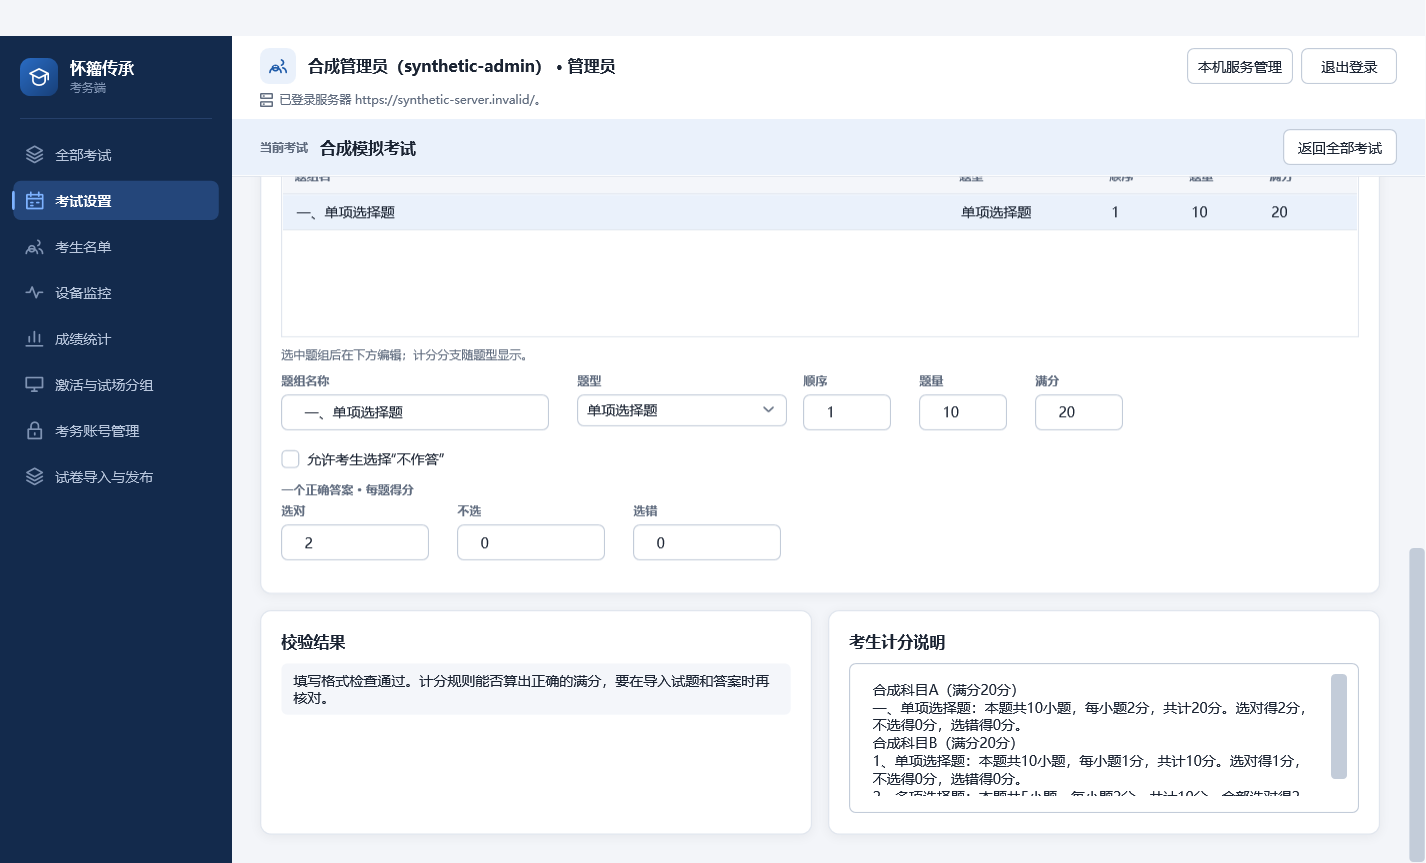
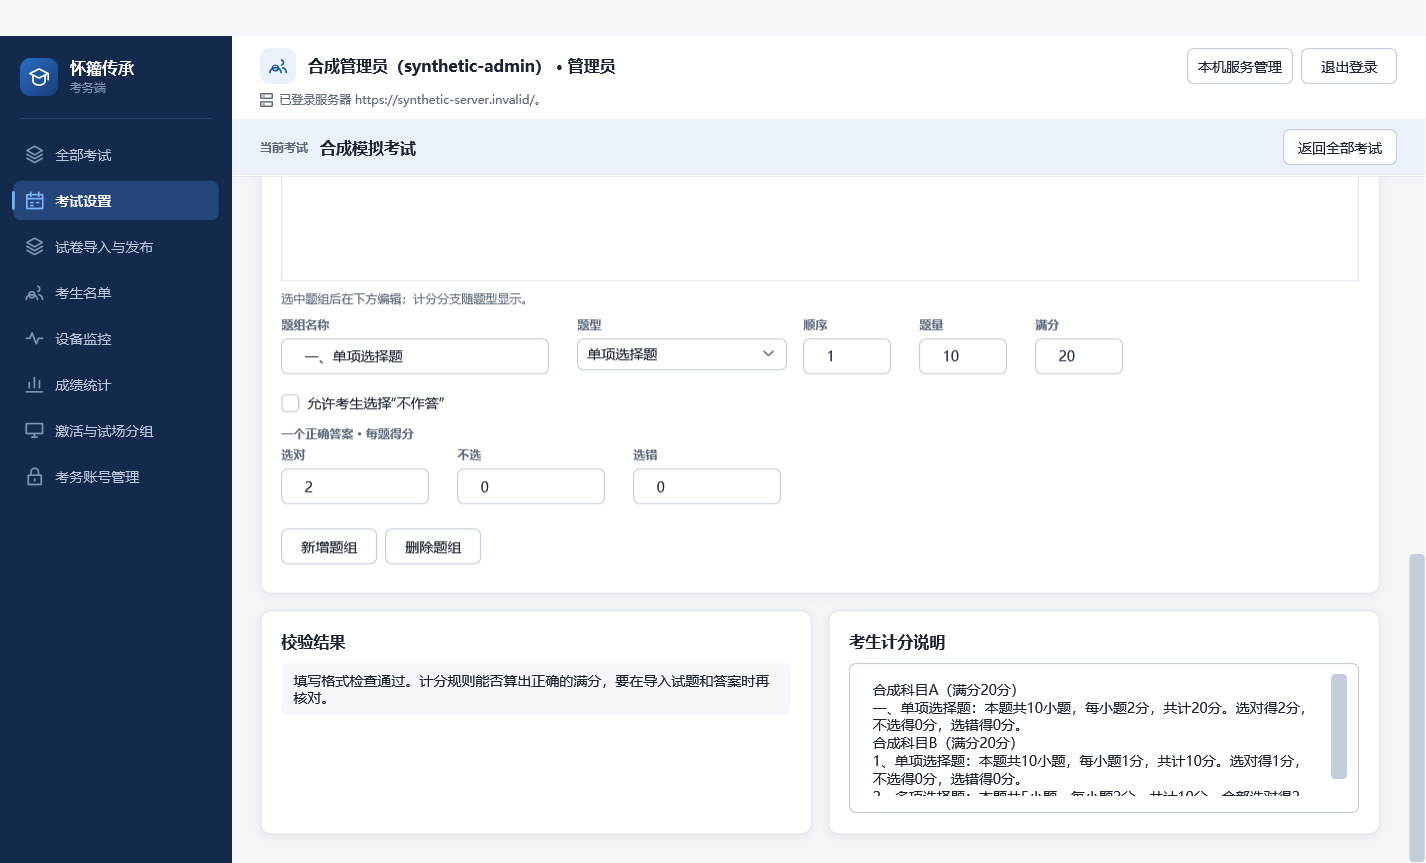
修正设置页与最新主分支衔接并更新复测证据

diff --git a/docs/operations/readable-settings.md b/docs/operations/readable-settings.md
@@ -1,9 +1,12 @@
 # C02 题组编辑与考试名称
 
-对应审查 D2/D3 及 #18。题组概览只保留名称、题型、顺序、题量与满分；选中后在下方编辑规则。单项题只展示一个正确答案的分支，多项题只展示多个正确答案的分支，不定项题展示两种分支；隐藏不会清除原值。新增、删除、开考后的禁改规则、服务器校验及原计分契约不变。
+对应审查 D2/D3 及 #46。题组概览只保留名称、题型、顺序、题量与满分；选中后在下方编辑规则。单项题只展示一个正确答案的分支，多项题只展示多个正确答案的分支，不定项题展示两种分支；隐藏不会清除原值。新增、删除、开考后的禁改规则、服务器校验及原计分契约不变。
 
 requirements.md 明确不另设考试类别。学生考试卡片删除旧类别行，HTTP 展示模型忽略旧服务可能返回的类别；GUI 和 CLI 以唯一的考试名称选择考试，沿用服务器现有忽略大小写与首尾空格的唯一性约束。稳定内部标识继续由程序传递，保证更名不会改变参试、答卷和成绩关联。旧公共 metadata 契约与历史数据库列保留兼容，未迁移或删除历史数据；它们不再成为学生界面的独立业务字段。
 
 本机验证：锁定依赖还原；.NET 10.0.401 全解决方案 Release 构建 0 警告、0 错误；考务非 WPF 测试 301 项通过；实际 App/MainWindow 的 WPF 绑定与题型切换冒烟 1 项通过，确认单/多答案适用分支可见性及编辑写回；独立合成截图测试 1 项通过。普通与最小窗口、100%/125%/150% 渲染位图已生成，其中题组编辑普通窗口截图已目视检查。渲染位图不等于真实系统 DPI 切换；学生程序集加载被 Windows 应用控制阻止，因此没有声称学生窗口现场验证通过。新增依赖、计分变更与数据库迁移均无。
 
 ![选中题组编辑适用规则](../reviews/assets/c02-group-editor.png)
+
+
+2026-10-05 已衔接最新主分支 b3138fd，保留 C01 新操作说明、题组新增删除按钮和 C05 规则入口。锁定还原已通过；全解决方案 Release 0 警告、0 错误；考务非 WPF 324 项、真实窗口绑定 1 项、独立截图 1 项通过。最新合成题组编辑截图已复看。学生现场验证及真实 DPI 设置切换限制仍保留。
